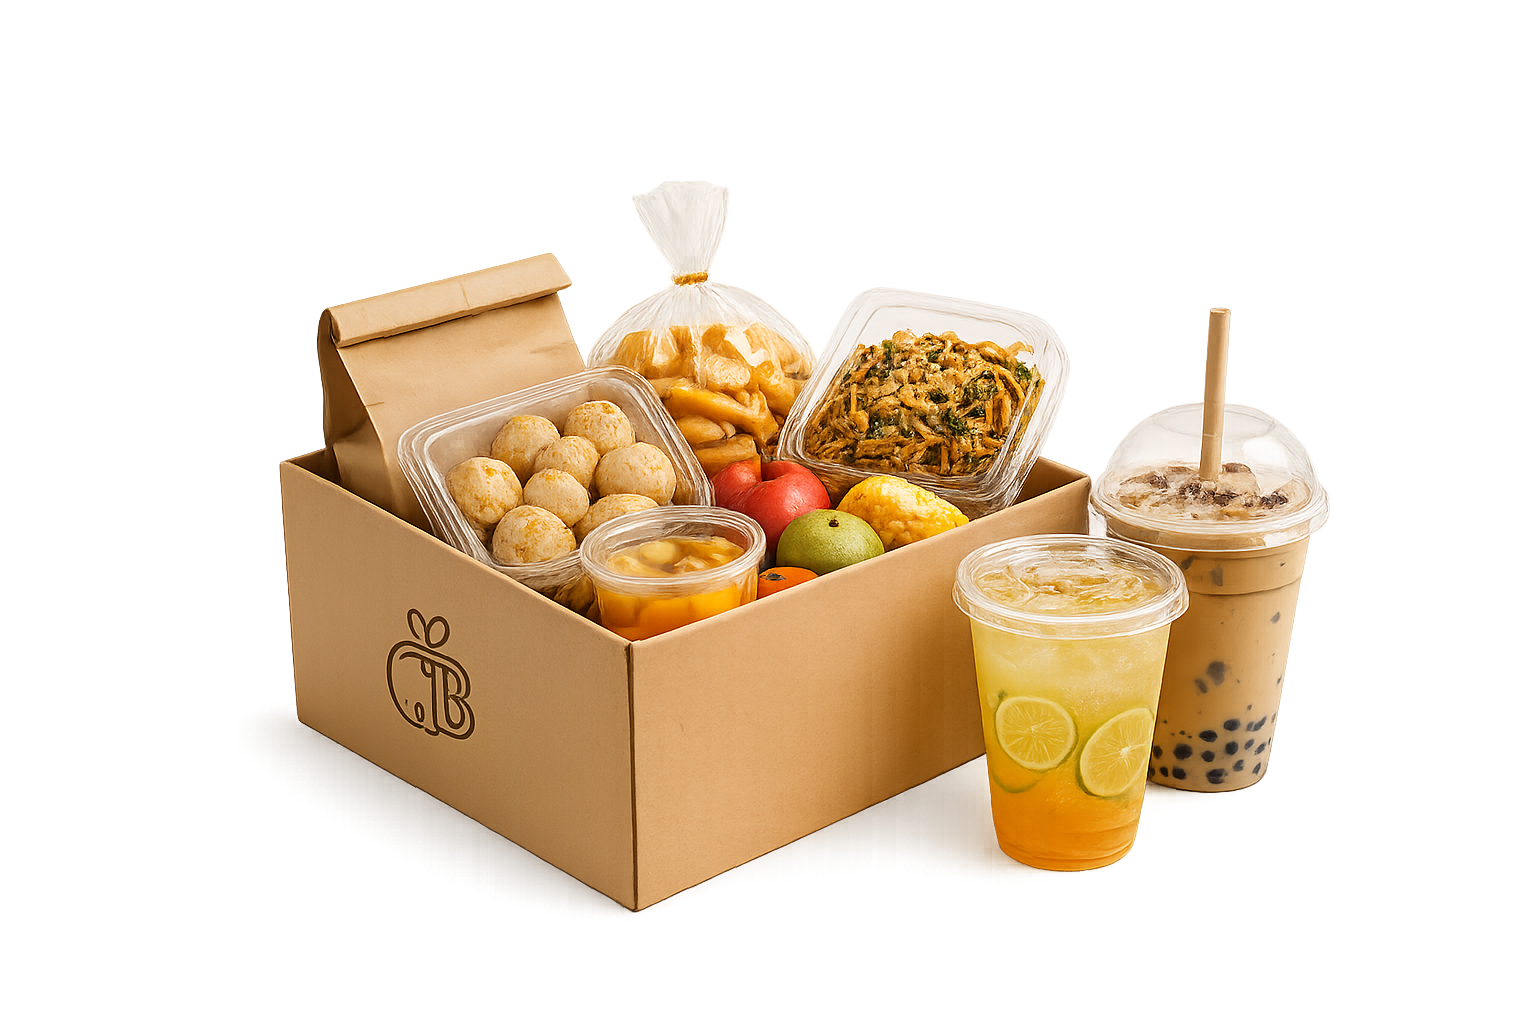
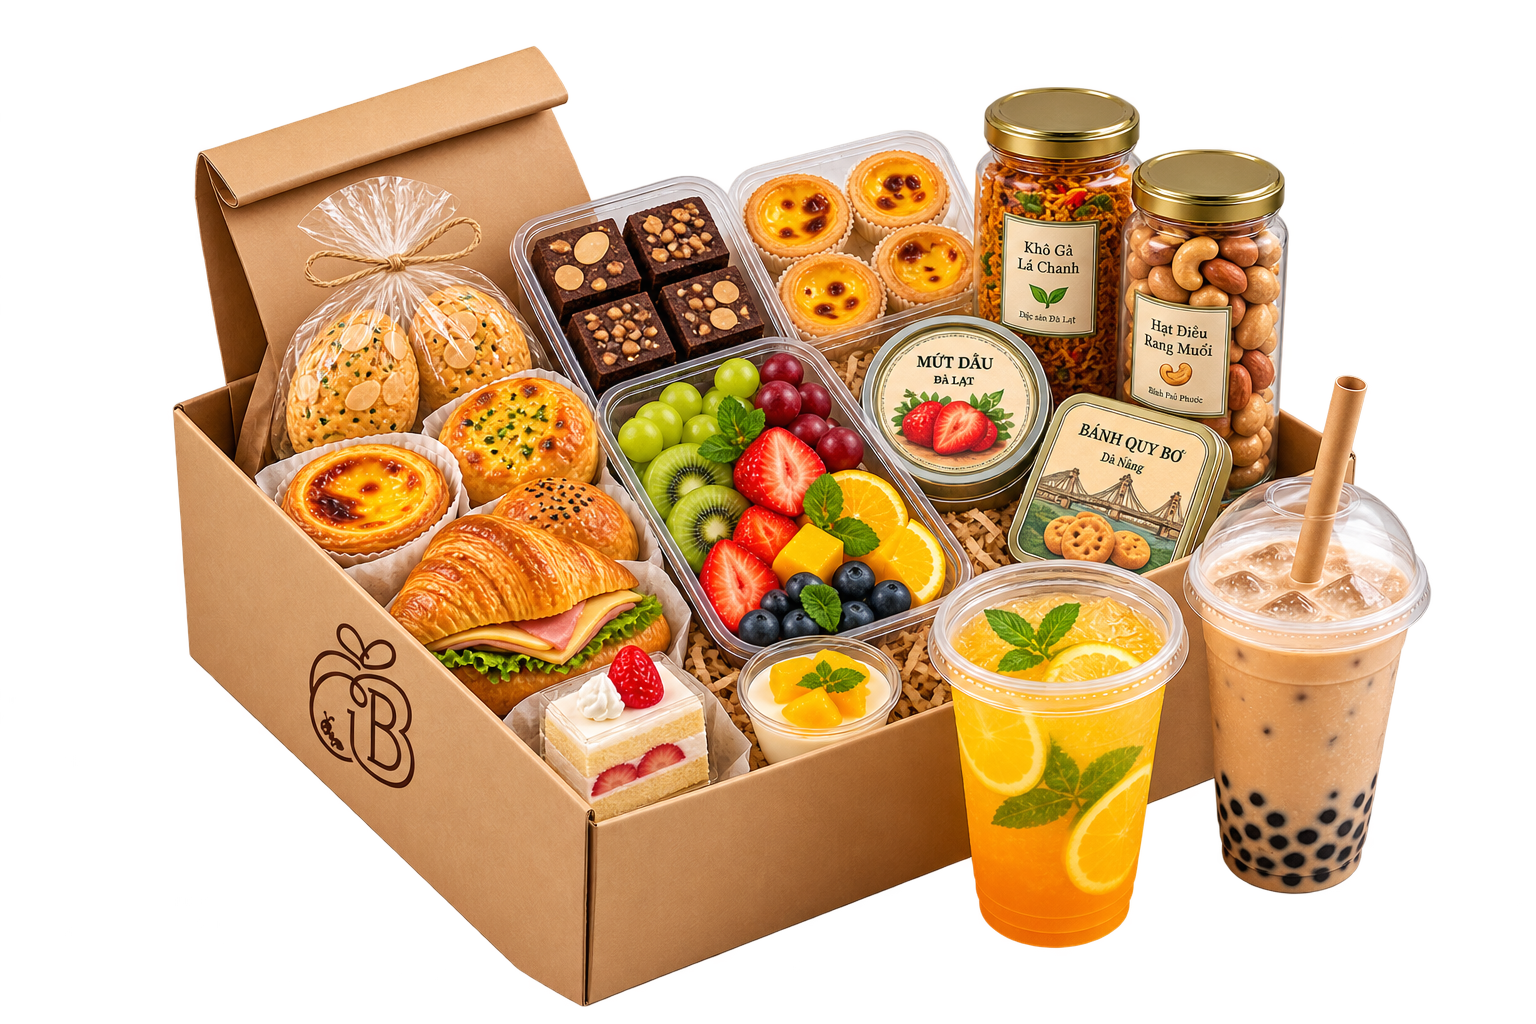
change: box-cake png

diff --git a/app/page.tsx b/app/page.tsx
@@ -194,8 +194,8 @@ export default function HomePage() {
               src="/box-cake.png"
               alt="Surprise Box"
               style={{
-                width: "230%",
-                maxWidth: 1080,
+                width: "200%",
+                maxWidth: 850,
                 height: "auto",
                 objectFit: "contain",
                 filter: "drop-shadow(0 24px 48px rgba(134,21,25,0.22))",
@@ -210,68 +210,68 @@ export default function HomePage() {
 
       {/* ABOUT FOOD WASTE */}
       <section id="how" style={{ padding: "96px 0", background: "var(--ivory)" }}>
-  <div className="container">
-    <div style={{
-      fontSize: 12, fontWeight: 700, color: "var(--text-muted)",
-      letterSpacing: "0.14em", textTransform: "uppercase", marginBottom: 8,
-    }}>Food waste fact</div>
-
-    <div data-reveal style={{
-      display: "grid", gridTemplateColumns: "1.1fr 1fr", gap: 56, alignItems: "end",
-      marginBottom: 56, paddingBottom: 40, borderBottom: "1px solid var(--border)",
-    }}>
-      <div>
-        <h2 style={{ fontSize: 41, marginBottom: 16, lineHeight: 1.2, letterSpacing: "-0.01em" }}>
-          Về lãng phí thực phẩm - vì sao mỗi phần thực phẩm cuối ngày đều đáng cứu
-        </h2>
-        <p style={{ fontSize: 16, color: "var(--text-muted)", lineHeight: 1.8, maxWidth: 480 }}>
-          Thực phẩm chưa kịp bán hết khi cửa hàng đóng cửa không đơn thuần là đồ bỏ đi,
-          đằng sau đó là công sức, nguyên liệu và chi phí vận hành mỗi ngày.
-        </p>
-      </div>
-      <div>
-        <div style={{ fontSize: 74, fontWeight: 800, color: "var(--primary)", letterSpacing: "-0.03em", lineHeight: 1 }}>
-          <CountUpNumber end={1.05} decimals={2} suffix=" tỷ" />
-        </div>
-        <div style={{ fontSize: 15, color: "var(--text)", fontWeight: 600, marginTop: 8 }}>tấn thực phẩm lãng phí toàn cầu mỗi năm</div>
-        <div style={{ fontSize: 11.5, color: "var(--text-muted)", marginTop: 4 }}>Nguồn: UNEP Food Waste Index 2024</div>
-      </div>
-    </div>
-
-    <div style={{ display: "flex", alignItems: "flex-start", gap: 16, marginBottom: 48 }}>
-      <div style={{ width: 32, height: 2, background: "var(--primary)", marginTop: 10, flexShrink: 0 }} />
-      <p style={{ fontStyle: "italic", fontSize: 18, lineHeight: 1.7, color: "var(--text)", maxWidth: 640, margin: 0 }}>
-        "Chúng tôi không giải cứu đồ hỏng. Chúng tôi kết nối lại những giá trị còn tốt."{" "}
-        <span style={{ fontStyle: "normal", fontSize: 11, fontWeight: 700, color: "var(--text-muted)", letterSpacing: "0.08em", textTransform: "uppercase" }}>
-          - CrumbUp
-        </span>
-      </p>
-    </div>
-
-    <div style={{ display: "grid", gridTemplateColumns: "repeat(4, 1fr)", gap: 16 }}>
-      {facts.map((f) => (
-        <div
-          key={f.n}
-          className="card-hover fact-card"
-          data-reveal
-          style={{
-            background: f.featured ? "var(--primary)" : "var(--cream)",
-            borderRadius: 14,
-            padding: "24px 22px",
-            transition: "transform .2s ease, box-shadow .2s ease",
-          }}
-        >
+        <div className="container">
           <div style={{
-            fontSize: 12, fontWeight: 800, fontVariantNumeric: "tabular-nums", marginBottom: 14,
-            color: f.featured ? "rgba(255,255,255,0.7)" : "var(--text-muted)",
-          }}>{f.n}</div>
-          <h3 style={{ fontSize: 17, marginBottom: 8, fontWeight: 700, color: f.featured ? "white" : "var(--text)" }}>{f.q}</h3>
-          <p style={{ fontSize: 12, lineHeight: 1.65, margin: 0, color: f.featured ? "rgba(255,255,255,0.85)" : "var(--text-muted)" }}>{f.p}</p>
+            fontSize: 12, fontWeight: 700, color: "var(--text-muted)",
+            letterSpacing: "0.14em", textTransform: "uppercase", marginBottom: 8,
+          }}>Food waste fact</div>
+
+          <div data-reveal style={{
+            display: "grid", gridTemplateColumns: "1.1fr 1fr", gap: 56, alignItems: "end",
+            marginBottom: 56, paddingBottom: 40, borderBottom: "1px solid var(--border)",
+          }}>
+            <div>
+              <h2 style={{ fontSize: 41, marginBottom: 16, lineHeight: 1.2, letterSpacing: "-0.01em" }}>
+                Về lãng phí thực phẩm - vì sao mỗi phần thực phẩm cuối ngày đều đáng cứu
+              </h2>
+              <p style={{ fontSize: 16, color: "var(--text-muted)", lineHeight: 1.8, maxWidth: 480 }}>
+                Thực phẩm chưa kịp bán hết khi cửa hàng đóng cửa không đơn thuần là đồ bỏ đi,
+                đằng sau đó là công sức, nguyên liệu và chi phí vận hành mỗi ngày.
+              </p>
+            </div>
+            <div>
+              <div style={{ fontSize: 74, fontWeight: 800, color: "var(--primary)", letterSpacing: "-0.03em", lineHeight: 1 }}>
+                <CountUpNumber end={1.05} decimals={2} suffix=" tỷ" />
+              </div>
+              <div style={{ fontSize: 15, color: "var(--text)", fontWeight: 600, marginTop: 8 }}>tấn thực phẩm lãng phí toàn cầu mỗi năm</div>
+              <div style={{ fontSize: 11.5, color: "var(--text-muted)", marginTop: 4 }}>Nguồn: UNEP Food Waste Index 2024</div>
+            </div>
+          </div>
+
+          <div style={{ display: "flex", alignItems: "flex-start", gap: 16, marginBottom: 48 }}>
+            <div style={{ width: 32, height: 2, background: "var(--primary)", marginTop: 10, flexShrink: 0 }} />
+            <p style={{ fontStyle: "italic", fontSize: 18, lineHeight: 1.7, color: "var(--text)", maxWidth: 640, margin: 0 }}>
+              "Chúng tôi không giải cứu đồ hỏng. Chúng tôi kết nối lại những giá trị còn tốt."{" "}
+              <span style={{ fontStyle: "normal", fontSize: 11, fontWeight: 700, color: "var(--text-muted)", letterSpacing: "0.08em", textTransform: "uppercase" }}>
+                - CrumbUp
+              </span>
+            </p>
+          </div>
+
+          <div style={{ display: "grid", gridTemplateColumns: "repeat(4, 1fr)", gap: 16 }}>
+            {facts.map((f) => (
+              <div
+                key={f.n}
+                className="card-hover fact-card"
+                data-reveal
+                style={{
+                  background: f.featured ? "var(--primary)" : "var(--cream)",
+                  borderRadius: 14,
+                  padding: "24px 22px",
+                  transition: "transform .2s ease, box-shadow .2s ease",
+                }}
+              >
+                <div style={{
+                  fontSize: 12, fontWeight: 800, fontVariantNumeric: "tabular-nums", marginBottom: 14,
+                  color: f.featured ? "rgba(255,255,255,0.7)" : "var(--text-muted)",
+                }}>{f.n}</div>
+                <h3 style={{ fontSize: 17, marginBottom: 8, fontWeight: 700, color: f.featured ? "white" : "var(--text)" }}>{f.q}</h3>
+                <p style={{ fontSize: 12, lineHeight: 1.65, margin: 0, color: f.featured ? "rgba(255,255,255,0.85)" : "var(--text-muted)" }}>{f.p}</p>
+              </div>
+            ))}
+          </div>
         </div>
-      ))}
-    </div>
-  </div>
-</section>
+      </section>
 
       {/* COMMUNITY IMPACT */}
       <section
@@ -314,9 +314,9 @@ export default function HomePage() {
 
           <div className="impact-grid" style={{ gap: 24 }}>
             {[
-              { end: 125430, decimals: 0, suffix: "",     label: "Box có thể được cứu",        sub: "Tiềm năng mỗi năm",                     color: "var(--accent)" },
-              { end: 312.6,  decimals: 1, suffix: " tấn",  label: "Thực phẩm có thể giảm lãng phí", sub: "Ước tính tương đương 850 hộ gia đình", color: "var(--primary)" },
-              { end: 2850,   decimals: 0, suffix: "+",    label: "Cửa hàng có thể đồng hành",  sub: "Mục tiêu 18 tỉnh thành",                color: "var(--text)" },
+              { end: 125430, decimals: 0, suffix: "", label: "Box có thể được cứu", sub: "Tiềm năng mỗi năm", color: "var(--accent)" },
+              { end: 312.6, decimals: 1, suffix: " tấn", label: "Thực phẩm có thể giảm lãng phí", sub: "Ước tính tương đương 850 hộ gia đình", color: "var(--primary)" },
+              { end: 2850, decimals: 0, suffix: "+", label: "Cửa hàng có thể đồng hành", sub: "Mục tiêu 18 tỉnh thành", color: "var(--text)" },
             ].map((s, i) => (
               <div
                 key={i}
